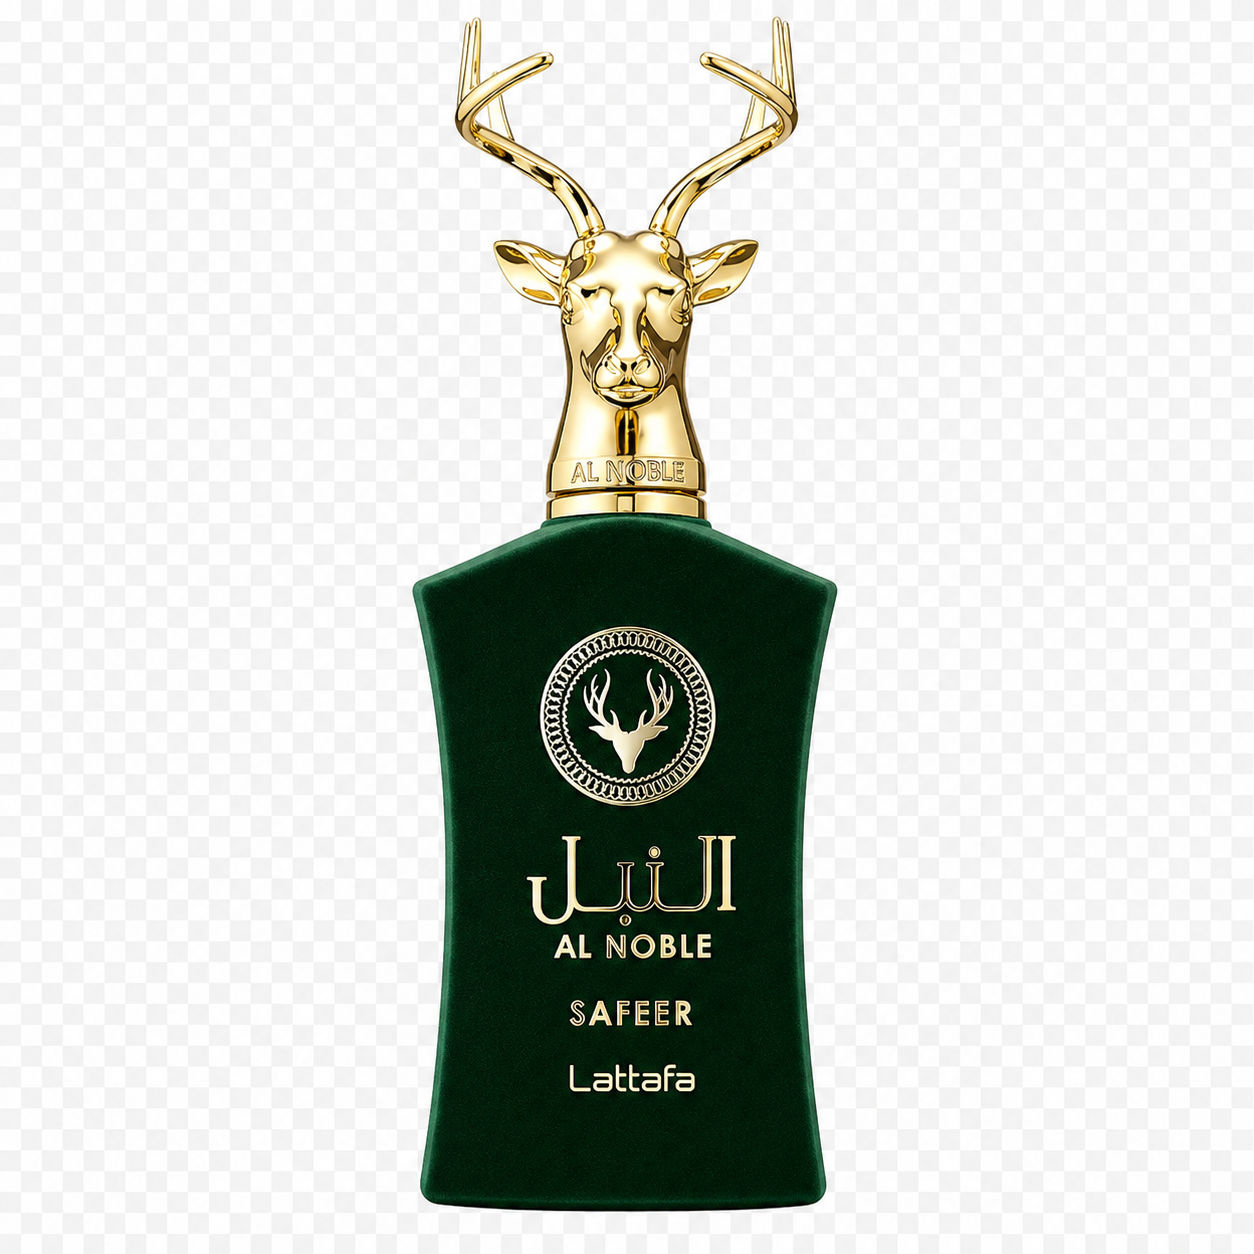
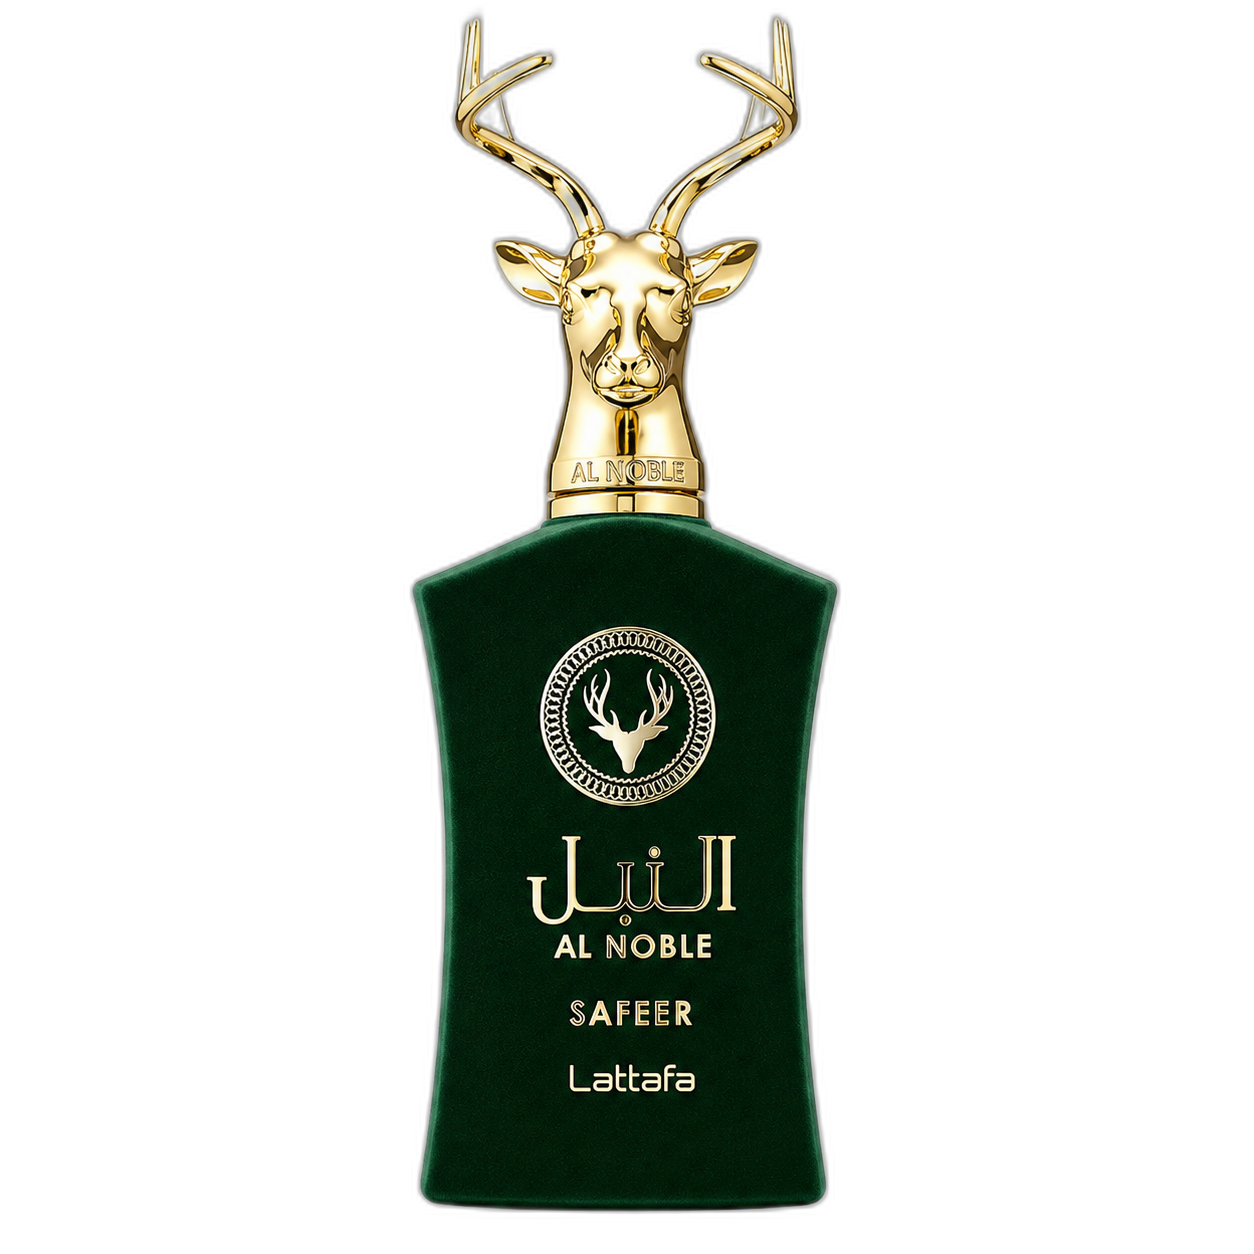
feat: add 4 body splash products, remove backgrounds from 14 images
- Added: Angham Mist, Mayar Body Splash, Mayar Cherry Intense Mist, Mayar Natural Intense Mist
- Removed backgrounds from all new product images using rembg
- Total products: 52

diff --git a/data.js b/data.js
@@ -2458,5 +2458,225 @@ const windowProducts = [
                 }
             ]
         }
+    },
+    {
+        "id": "bodysplash_angham",
+        "name": "Angham Mist",
+        "brand": "Lattafa",
+        "category": "Doce",
+        "gender": "Unissex",
+        "coverImage": "./Assets/bodysplash-angham.png",
+        "modalImage": "./Assets/bodysplash-angham.png",
+        "glowColor": "rgba(255,165,0,0.25)",
+        "description": "Um body splash oriental e viciante. Pimenta rosa e gengibre evoluem para um coração gourmand de cacau e pralinê, com uma base quente de baunilha e âmbar.",
+        "notes": {
+            "top": [
+                {
+                    "name": "Pimenta Rosa",
+                    "value": 85
+                },
+                {
+                    "name": "Gengibre",
+                    "value": 82
+                },
+                {
+                    "name": "Mandarina",
+                    "value": 80
+                }
+            ],
+            "heart": [
+                {
+                    "name": "Lavanda",
+                    "value": 78
+                },
+                {
+                    "name": "Cacau",
+                    "value": 92
+                },
+                {
+                    "name": "Pralinê",
+                    "value": 90
+                },
+                {
+                    "name": "Jasmim",
+                    "value": 75
+                }
+            ],
+            "base": [
+                {
+                    "name": "Baunilha",
+                    "value": 95
+                },
+                {
+                    "name": "Âmbar",
+                    "value": 88
+                },
+                {
+                    "name": "Almíscar",
+                    "value": 85
+                }
+            ]
+        }
+    },
+    {
+        "id": "bodysplash_mayar",
+        "name": "Mayar Body Splash",
+        "brand": "Lattafa",
+        "category": "Doce",
+        "gender": "Feminino",
+        "coverImage": "./Assets/bodysplash-mayar.png",
+        "modalImage": "./Assets/bodysplash-mayar.png",
+        "glowColor": "rgba(255,182,193,0.25)",
+        "description": "A versão refrescante do icônico Mayar. Framboesa e lichia em uma névoa leve e duradoura, perfeita para o dia a dia.",
+        "notes": {
+            "top": [
+                {
+                    "name": "Framboesa",
+                    "value": 90
+                },
+                {
+                    "name": "Lichia",
+                    "value": 88
+                },
+                {
+                    "name": "Groselha Preta",
+                    "value": 82
+                }
+            ],
+            "heart": [
+                {
+                    "name": "Rosa",
+                    "value": 92
+                },
+                {
+                    "name": "Magnólia",
+                    "value": 85
+                },
+                {
+                    "name": "Benjoim",
+                    "value": 78
+                }
+            ],
+            "base": [
+                {
+                    "name": "Âmbar",
+                    "value": 88
+                },
+                {
+                    "name": "Patchouli",
+                    "value": 84
+                }
+            ]
+        }
+    },
+    {
+        "id": "bodysplash_mayar_cherry",
+        "name": "Mayar Cherry Intense Mist",
+        "brand": "Lattafa",
+        "category": "Doce",
+        "gender": "Feminino",
+        "coverImage": "./Assets/bodysplash-mayar-cherry-intense.png",
+        "modalImage": "./Assets/bodysplash-mayar-cherry-intense.png",
+        "glowColor": "rgba(178,34,34,0.25)",
+        "description": "Uma névoa frutada intensa com alma gourmand. Morango e bergamota se fundem com geleia de cereja e cacau numa explosão de doçura.",
+        "notes": {
+            "top": [
+                {
+                    "name": "Morango",
+                    "value": 90
+                },
+                {
+                    "name": "Bergamota",
+                    "value": 82
+                }
+            ],
+            "heart": [
+                {
+                    "name": "Geleia de Cereja",
+                    "value": 95
+                },
+                {
+                    "name": "Cacau",
+                    "value": 90
+                }
+            ],
+            "base": [
+                {
+                    "name": "Baunilha",
+                    "value": 92
+                },
+                {
+                    "name": "Âmbar",
+                    "value": 86
+                },
+                {
+                    "name": "Patchouli",
+                    "value": 80
+                }
+            ]
+        }
+    },
+    {
+        "id": "bodysplash_mayar_natural",
+        "name": "Mayar Natural Intense Mist",
+        "brand": "Lattafa",
+        "category": "Floral",
+        "gender": "Feminino",
+        "coverImage": "./Assets/bodysplash-mayar-natural-intense.png",
+        "modalImage": "./Assets/bodysplash-mayar-natural-intense.png",
+        "glowColor": "rgba(34,139,34,0.2)",
+        "description": "A versão mist do Mayar Natural Intense. Figo e água de coco em uma brisa tropical com flores de lótus e sândalo.",
+        "notes": {
+            "top": [
+                {
+                    "name": "Figo",
+                    "value": 88
+                },
+                {
+                    "name": "Tangerina Verde",
+                    "value": 82
+                },
+                {
+                    "name": "Melão",
+                    "value": 78
+                },
+                {
+                    "name": "Água de Coco",
+                    "value": 90
+                }
+            ],
+            "heart": [
+                {
+                    "name": "Flor de Lótus",
+                    "value": 92
+                },
+                {
+                    "name": "Nenúfar",
+                    "value": 85
+                },
+                {
+                    "name": "Jasmim",
+                    "value": 80
+                }
+            ],
+            "base": [
+                {
+                    "name": "Ambroxan",
+                    "value": 86
+                },
+                {
+                    "name": "Almíscar",
+                    "value": 84
+                },
+                {
+                    "name": "Sândalo",
+                    "value": 88
+                },
+                {
+                    "name": "Baunilha",
+                    "value": 90
+                }
+            ]
+        }
     }
 ];
